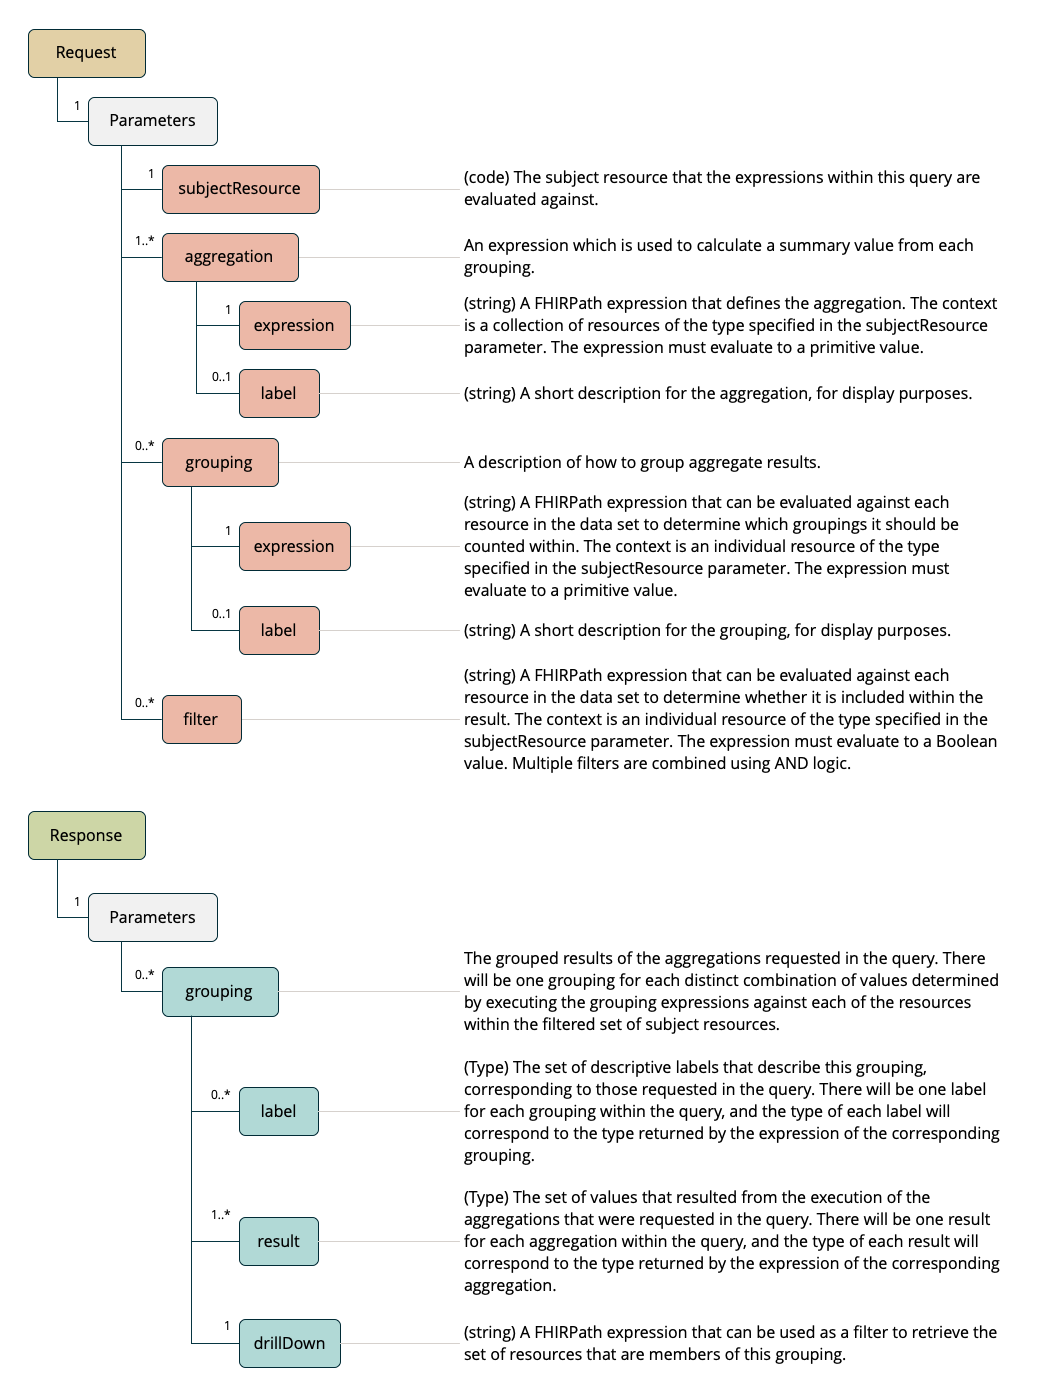
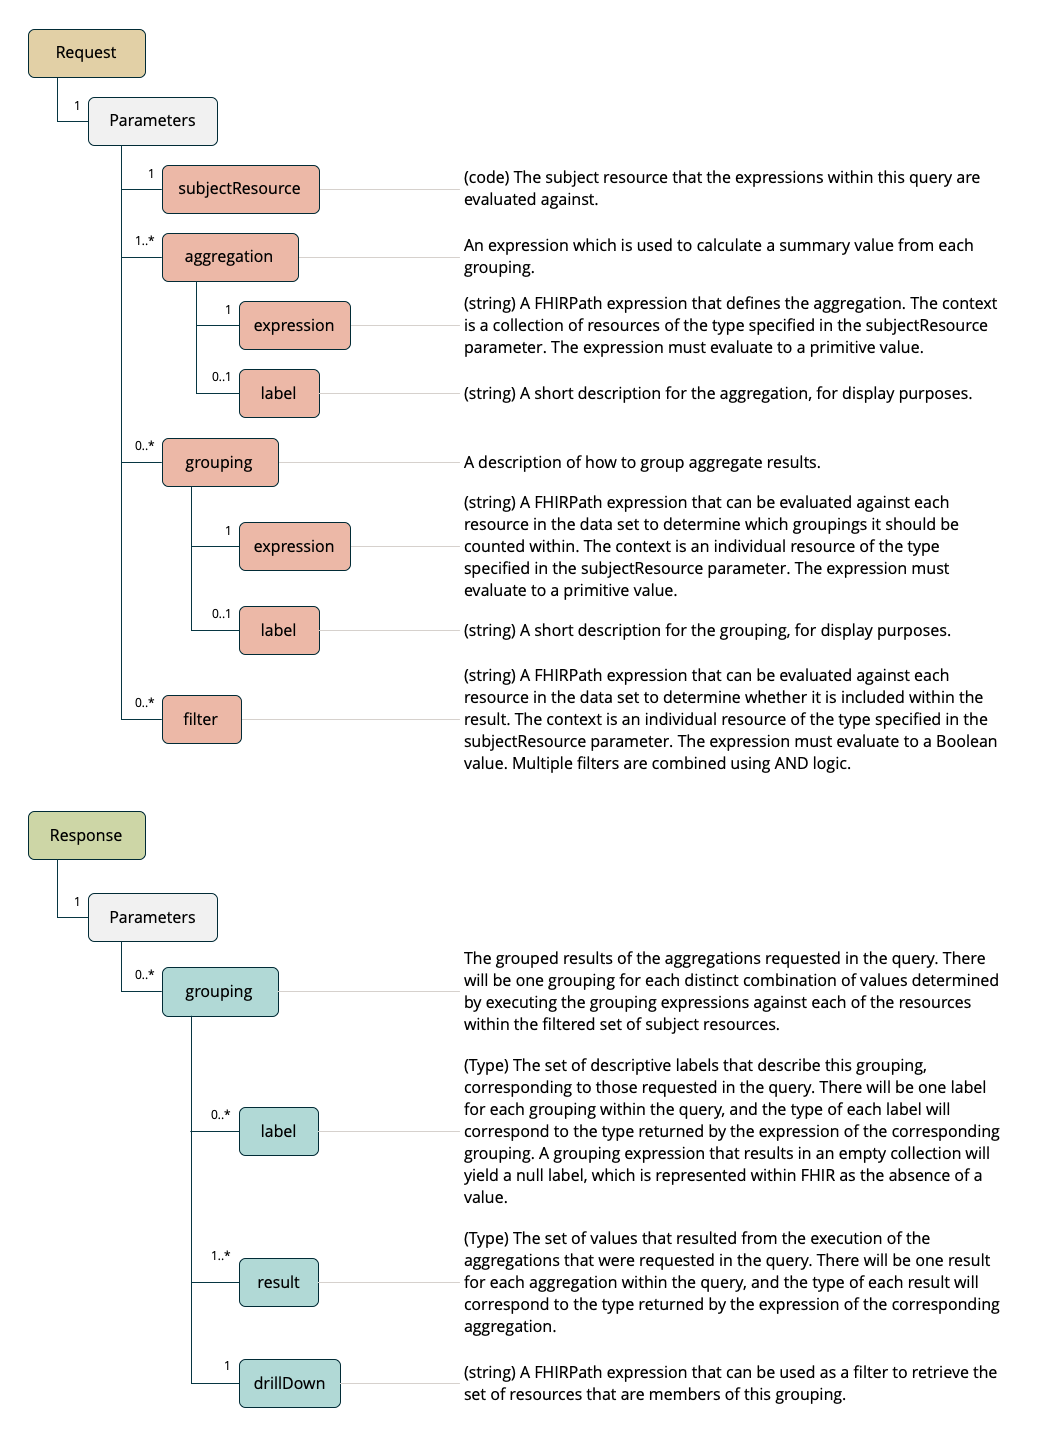
Get queryWithWhereAsComparisonOperand passing
Fixes #60.

diff --git a/fhir-server/src/test/java/au/csiro/pathling/query/functions/WhereFunctionTest.java b/fhir-server/src/test/java/au/csiro/pathling/query/functions/WhereFunctionTest.java
@@ -81,8 +81,10 @@ public class WhereFunctionTest {
         .withStructColumn("id", DataTypes.StringType)
         .withStructColumn("status", DataTypes.StringType)
         .withRow("Patient/abc1", RowFactory.create("Encounter/abc1", "in-progress"))
+        .withRow("Patient/abc1", null)
         .withRow("Patient/abc2", RowFactory.create("Encounter/abc3", "in-progress"))
         .withRow("Patient/abc3", RowFactory.create("Encounter/abc4", "in-progress"))
+        .withRow("Patient/abc3", null)
         .buildWithStructValue("456mnop");
     assertThat(result)
         .selectResult()
@@ -130,8 +132,11 @@ public class WhereFunctionTest {
         .withColumn("456mnop_id", DataTypes.StringType)
         .withColumn("456mnop", DataTypes.StringType)
         .withRow("Patient/abc1", "en")
+        .withRow("Patient/abc1", null)
+        .withRow("Patient/abc2", null)
         .withRow("Patient/abc3", "en")
         .withRow("Patient/abc3", "en")
+        .withRow("Patient/abc3", null)
         .build();
     assertThat(result)
         .selectResult()
@@ -184,7 +189,7 @@ public class WhereFunctionTest {
   }
 
   @Test
-  public void nullValuesAreExcluded() {
+  public void nullValuesAreNull() {
     // Build an expression which represents the input to the function.
     ParsedExpression inputExpression = new PrimitiveExpressionBuilder(FHIRDefinedType.STRING,
         FhirPathType.STRING)
@@ -223,8 +228,11 @@ public class WhereFunctionTest {
     Dataset<Row> expectedDataset = new DatasetBuilder()
         .withColumn("456mnop_id", DataTypes.StringType)
         .withColumn("456mnop", DataTypes.StringType)
+        .withRow("Patient/abc1", null)
         .withRow("Patient/abc1", "es")
         .withRow("Patient/abc2", "de")
+        .withRow("Patient/abc3", null)
+        .withRow("Patient/abc3", null)
         .withRow("Patient/abc3", "zh")
         .build();
     assertThat(result)

diff --git a/fhir-server/src/main/java/au/csiro/pathling/query/functions/WhereFunction.java b/fhir-server/src/main/java/au/csiro/pathling/query/functions/WhereFunction.java
@@ -7,6 +7,7 @@
 package au.csiro.pathling.query.functions;
 
 import static org.apache.spark.sql.functions.lit;
+import static org.apache.spark.sql.functions.when;
 
 import au.csiro.pathling.query.parsing.ParsedExpression;
 import au.csiro.pathling.query.parsing.ParsedExpression.FhirPathType;
@@ -33,25 +34,28 @@ public class WhereFunction implements Function {
     ParsedExpression inputResult = input.getInput();
     ParsedExpression argument = input.getArguments().get(0);
 
-    Column idColumn,
-        inputValueCol = inputResult.getValueColumn();
+    Column idColumn, valueColumn;
     Dataset<Row> dataset;
     if (argument.isLiteral()) {
       // Filter the input dataset based upon the literal value of the argument.
-      dataset = inputResult.getDataset().filter(lit(argument.getJavaLiteralValue()));
+      dataset = inputResult.getDataset();
       idColumn = inputResult.getIdColumn();
+      valueColumn = when(lit(argument.getJavaLiteralValue()), inputResult.getValueColumn())
+          .otherwise(null);
     } else {
       // Create a new dataset by performing an inner join from the input to the argument, based on
       // whether the boolean value is true or not.
-      dataset = argument.getDataset().filter(argument.getValueColumn().equalTo(true));
+      dataset = argument.getDataset();
       idColumn = argument.getIdColumn();
+      valueColumn = when(argument.getValueColumn().equalTo(true), inputResult.getValueColumn())
+          .otherwise(null);
     }
 
     // Construct a new parse result.
     ParsedExpression result = new ParsedExpression(inputResult);
     result.setFhirPath(input.getExpression());
     result.setDataset(dataset);
-    result.setHashedValue(idColumn, inputValueCol);
+    result.setHashedValue(idColumn, valueColumn);
 
     return result;
   }

diff --git a/fhir-server/src/main/java/au/csiro/pathling/query/parsing/parser/ExpressionInvocationVisitor.java b/fhir-server/src/main/java/au/csiro/pathling/query/parsing/parser/ExpressionInvocationVisitor.java
@@ -115,11 +115,12 @@ class ExpressionInvocationVisitor extends FhirPathBaseVisitor<ParsedExpression> 
     if (function == null) {
       throw new InvalidRequestException("Unrecognised function: " + functionIdentifier);
     }
-    return invokeFunction(ctx, function);
+    return invokeFunction(ctx, functionIdentifier, function);
   }
 
   @Nonnull
-  private ParsedExpression invokeFunction(FunctionInvocationContext ctx, Function function) {
+  private ParsedExpression invokeFunction(FunctionInvocationContext ctx,
+      String functionIdentifier, Function function) {
     // Get the parse results for each of the expressions that make up the functions arguments.
     List<ParsedExpression> arguments;
     ParamListContext paramList = ctx.functn().paramList();
@@ -144,7 +145,11 @@ class ExpressionInvocationVisitor extends FhirPathBaseVisitor<ParsedExpression> 
     // Build a function input that passes the arguments as ParseResults.
     FunctionInput functionInput = new FunctionInput();
     functionInput.setContext(context);
-    functionInput.setExpression(ctx.getText());
+    String argumentsFhirPath = arguments.stream()
+        .map(ParsedExpression::getFhirPath)
+        .collect(Collectors.joining(", "));
+    String fhirPath = functionIdentifier + "(" + argumentsFhirPath + ")";
+    functionInput.setExpression(fhirPath);
     functionInput.setInput(invoker);
     functionInput.getArguments().addAll(arguments);
 

diff --git a/fhir-server/src/test/java/au/csiro/pathling/query/AggregateExecutorTest.java b/fhir-server/src/test/java/au/csiro/pathling/query/AggregateExecutorTest.java
@@ -593,7 +593,7 @@ public class AggregateExecutorTest extends ExecutorTest {
     Grouping grouping = new Grouping();
     grouping.setLabel("First prescription falls before 2018-05-06");
     grouping.setExpression("@2018-05-06 > reverseResolve(MedicationRequest.subject).where("
-        + "$this.medicationCodeableConcept.coding contains http://snomed.info/sct|407317001"
+        + "$this.medicationCodeableConcept.coding contains http://www.nlm.nih.gov/research/umls/rxnorm|243670"
         + ").first().authoredOn");
     request.getGroupings().add(grouping);
 
@@ -604,7 +604,7 @@ public class AggregateExecutorTest extends ExecutorTest {
     this.response = response.toParameters();
     String actualJson = getJsonParser().encodeResourceToString(this.response);
     checkExpectedJson(actualJson,
-        "responses/AggregateExecutorTest-queryWithDateTimeGrouping.Parameters.json");
+        "responses/AggregateExecutorTest-queryWithWhereAsComparisonOperand.Parameters.json");
   }
 
 }

diff --git a/fhir-server/src/main/java/au/csiro/pathling/query/operators/ComparisonOperator.java b/fhir-server/src/main/java/au/csiro/pathling/query/operators/ComparisonOperator.java
@@ -117,8 +117,7 @@ public class ComparisonOperator implements BinaryOperator {
     result.setPrimitive(true);
     result.setSingular(true);
     result.setDataset(dataset);
-    result.setIdColumn(idColumn);
-    result.setValueColumn(expression);
+    result.setHashedValue(idColumn, expression);
     return result;
   }
 

diff --git a/site/docs/aggregate.md b/site/docs/aggregate.md
@@ -67,10 +67,12 @@ following parameters:
   determined by executing the grouping expressions against each of the resources
   within the filtered set of subject resources.
   - `label [0..*]` - ([Type](https://hl7.org/fhir/R4/datatypes.html#primitive))
-    The set of descriptive labels that describe this grouping, corresponding to
-    those requested in the query. There will be one label for each grouping
-    within the query, and the type of each label will correspond to the type
-    returned by the expression of the corresponding grouping.
+    The set of descriptive labels that describe this grouping, corresponding to 
+    those requested in the query. There will be one label for each grouping 
+    within the query, and the type of each label will correspond to the type 
+    returned by the expression of the corresponding grouping. A grouping 
+    expression that results in an empty collection will yield a null label, 
+    which is represented within FHIR as the absence of a value.
   - `result [1..*]` - ([Type](https://hl7.org/fhir/R4/datatypes.html#primitive))
     The set of values that resulted from the execution of the aggregations that
     were requested in the query. There will be one result for each aggregation
